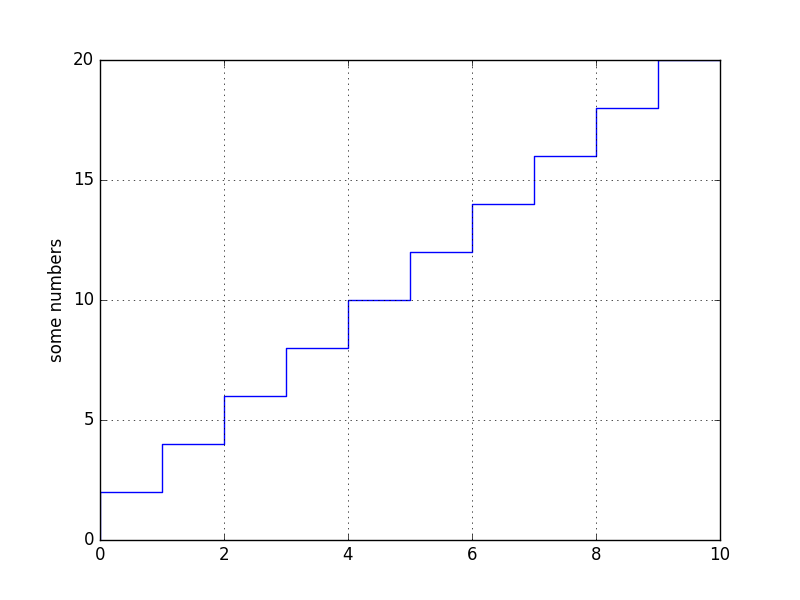
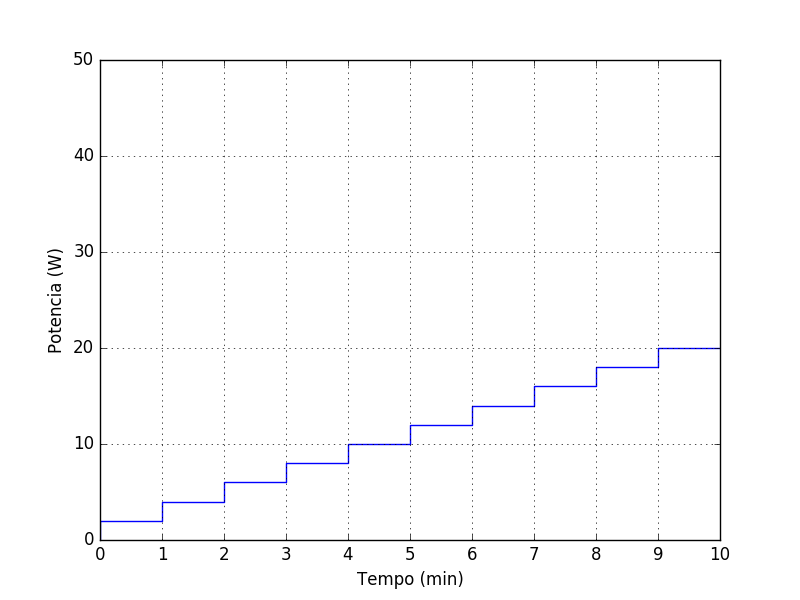
Adicionando escalas modificáveis
Para mostrar melhor os steps a cada minuto

diff --git a/PyQt/pylab_plot.py b/PyQt/pylab_plot.py
@@ -12,7 +12,6 @@ def plotMode(self,mode):
 	sentence = "rm " + img
 	# print sentence
 	os.system(sentence)
-	# os.system("rm mode1.png")
 	time_step = parametros.todos['tempoStep']
 	timeValue = 0 	#Tempo sempre inicia em zero
 	potStep = parametros.todos['potenciaStep']
@@ -34,13 +33,11 @@ def plotMode(self,mode):
 	else:
 		color = 'red'
 
+	plt.xticks(x, range(interval+1))
 	plt.step(x,y,color)
-	plt.ylabel('some numbers')
+	plt.ylabel('Potencia (W)')
+	plt.xlabel('Tempo (min)')
 	plt.grid()
-	# plt.show()
+	plt.axis([0, interval, 0, 50])
 	plt.savefig(img)
 	plt.close()
-
-
-
-# plotMode(plotMode,1)
